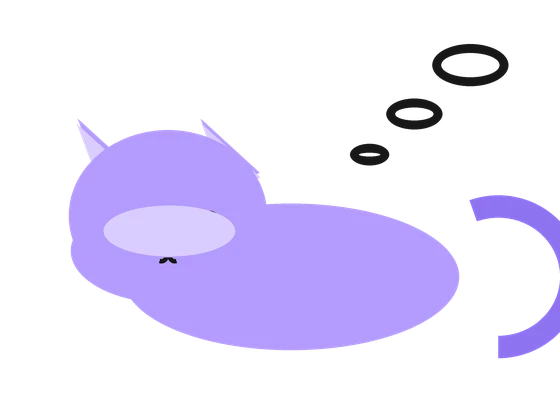
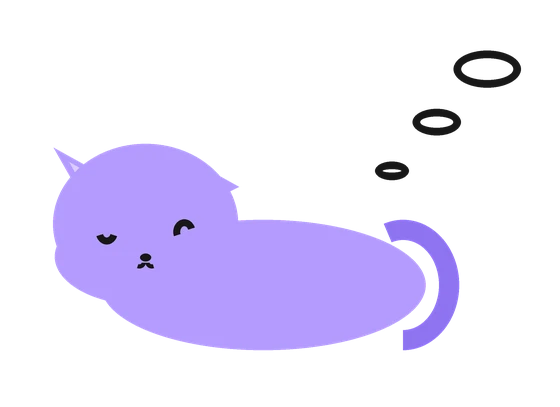
brand: phone-art fixes — scaled line coordinates, nested ear triangles
The notepad's lines were drawn in unscaled coordinates (PIL got raw
values on the 4x canvas, leaving a miniature mark top-left), and the
ears read as spikes; both fixed, and the asleep pose's tail now joins
the body.

diff --git a/server/make_phone_art.py b/server/make_phone_art.py
@@ -49,10 +49,12 @@ def head(d: ImageDraw.ImageDraw, cx: float, cy: float, r: float, eyes="open", ti
     for sx in (-1, 1):
         ex = cx + sx * hw * 0.62
         ey = cy - hh * 0.62
-        ear = [(ex - r * 0.34, ey - r * 0.52), (ex + r * 0.36, ey + r * 0.12), (ex - r * 0.02, ey + r * 0.34)]
+        ear = [(ex - r * 0.44, ey - r * 0.34), (ex + r * 0.46, ey + r * 0.16), (ex - r * 0.02, ey + r * 0.40)]
         d.polygon([(x * SS, y * SS) for x, y in ear], fill=FUR)
+        gx = sum(p[0] for p in ear) / 3
+        gy = sum(p[1] for p in ear) / 3
         d.polygon(
-            [(x * SS + sx * r * 0.05, (y + r * 0.06) * SS) for x, y in ear],
+            [((gx + (x - gx) * 0.55) * SS, (gy + (y - gy) * 0.55) * SS) for x, y in ear],
             fill=INNER,
         )
     # skull: a squashed circle with cheeks
@@ -155,18 +157,17 @@ def shelf(w: int, h: int):
 def asleep(w: int, h: int):
     """Curled up, eyes closed, dreaming."""
     img, d, _ = canvas(w, h)
-    cx = w * 0.52
-    cy = h * 0.66
-    ellipse(d, [cx - w * 0.30, cy - h * 0.16, cx + w * 0.30, cy + h * 0.20], fill=FUR)
+    cx = w * 0.46
+    cy = h * 0.68
+    ellipse(d, [cx - w * 0.28, cy - h * 0.14, cx + w * 0.30, cy + h * 0.18], fill=FUR)
     d.arc(
-        [(cx + w * 0.22) * SS, (cy - h * 0.18) * SS, (cx + w * 0.52) * SS, (cy + h * 0.22) * SS],
-        250, 90, fill=FUR_DARK, width=round(h * 0.055 * SS),
+        [(cx + w * 0.16) * SS, (cy - h * 0.14) * SS, (cx + w * 0.36) * SS, (cy + h * 0.18) * SS],
+        250, 90, fill=FUR_DARK, width=round(h * 0.05 * SS),
     )
-    head(d, cx - w * 0.22, cy - h * 0.13, w * 0.15, eyes="closed")
-    ellipse(d, [cx - w * 0.335, cy - h * 0.155, cx - w * 0.10, cy - h * 0.03], fill=INNER)
-    for i, (zx, zy, r) in enumerate([(0.66, 0.38, 0.035), (0.74, 0.28, 0.05), (0.84, 0.16, 0.068)]):
+    head(d, cx - w * 0.20, cy - h * 0.13, w * 0.14, eyes="closed")
+    for i, (zx, zy, r) in enumerate([(0.70, 0.42, 0.03), (0.78, 0.30, 0.043), (0.87, 0.17, 0.06)]):
         zr = r * w
-        ellipse(d, [w * zx - zr, h * zy - zr * 0.55, w * zx + zr, h * zy + zr * 0.55], outline=INK, width=round(w * 0.016 * SS))
+        ellipse(d, [w * zx - zr, h * zy - zr * 0.55, w * zx + zr, h * zy + zr * 0.55], outline=INK, width=round(w * 0.014 * SS))
     save(img, w, h, "nova-asleep.webp")
 
 
@@ -174,20 +175,19 @@ def note(w: int, h: int):
     """Holding the meeting notes."""
     img, d, _ = canvas(w, h)
     cx = w * 0.5
-    ground = h * 0.92
-    body_h = h * 0.26
+    ground = h * 0.94
+    body_h = h * 0.24
     rrect(d, [cx - w * 0.26, ground - body_h, cx + w * 0.26, ground + body_h * 0.14], w * 0.2, fill=FUR)
-    head(d, cx, ground - body_h - h * 0.10, w * 0.155)
-    # the notepad between her paws
-    px, pw, ph = cx - w * 0.16, w * 0.32, h * 0.26
-    py = ground - body_h - ph * 0.4
+    head(d, cx, ground - body_h - h * 0.115, w * 0.155)
+    # the notepad, held below her chin
+    px, pw, ph = cx - w * 0.17, w * 0.34, h * 0.24
+    py = ground - body_h * 0.72
     rrect(d, [px, py, px + pw, py + ph], h * 0.03, fill=WHITE)
-    for i in range(4):
-        y = py + ph * 0.22 + i * ph * 0.18
-        d.line([px + pw * 0.14, y, px + pw * (0.86 if i % 2 == 0 else 0.62), y], fill="#8B6CFF", width=round(h * 0.014 * SS))
-    d.line([cx, py - h * 0.012, cx, py], fill="#6E4BE8", width=round(h * 0.012 * SS))
+    for i in range(3):
+        y = py + ph * 0.30 + i * ph * 0.2
+        d.line([(px + pw * 0.14) * SS, y * SS, (px + pw * (0.86 if i % 2 == 0 else 0.6)) * SS, y * SS], fill="#8B6CFF", width=round(h * 0.013 * SS))
     for sx in (-1, 1):
-        paw(d, cx + sx * pw * 0.44, py + ph * 0.18, w * 0.075)
+        paw(d, cx + sx * pw * 0.42, py + ph * 0.16, w * 0.07)
     save(img, w, h, "nova-note.webp")
 
 
